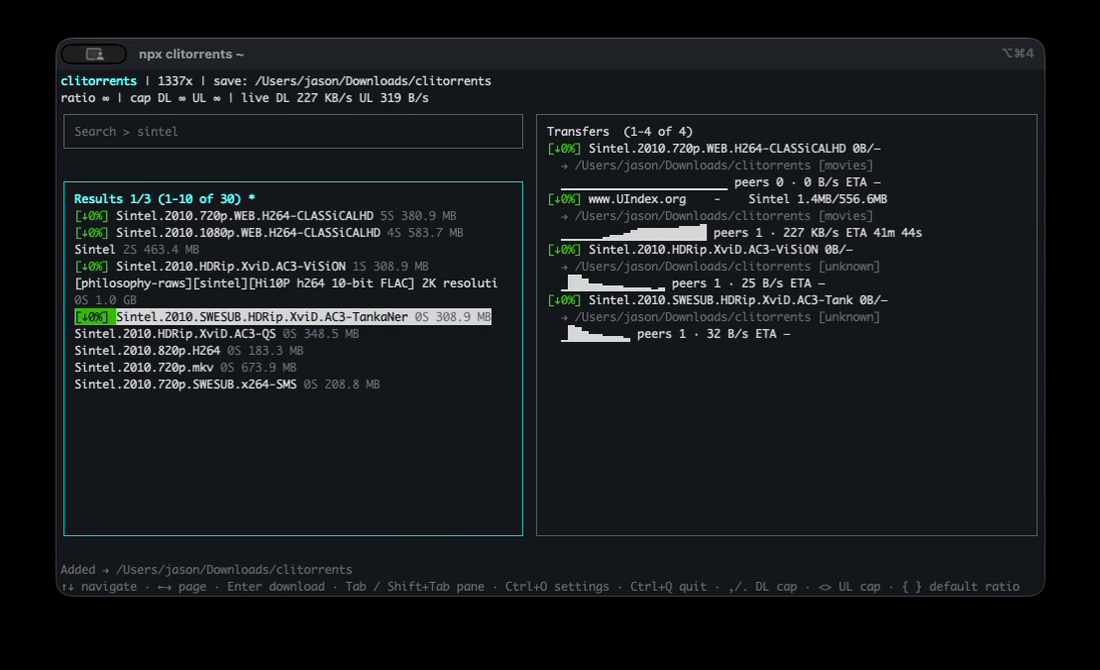
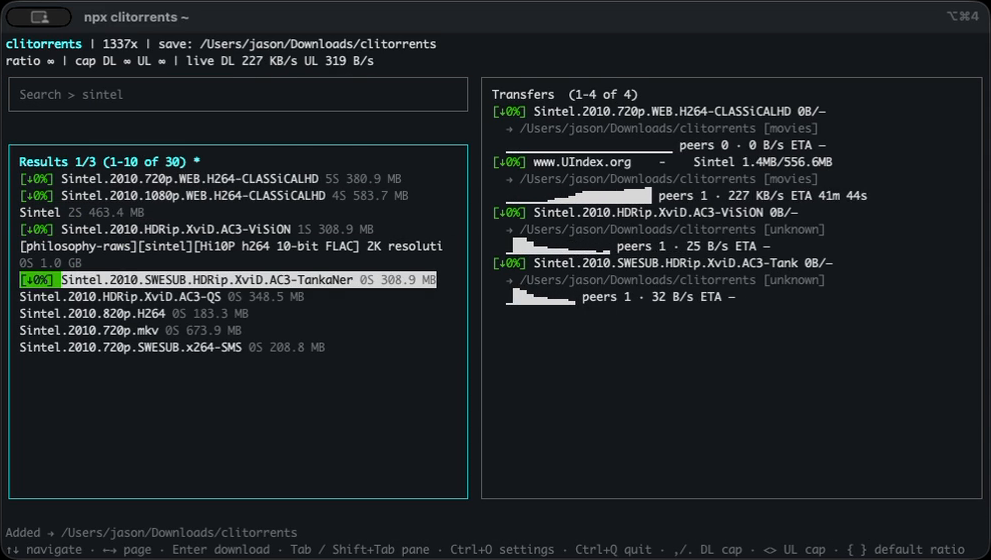
Refactor hero media section in index.html and styles.css for improved layout and styling. Simplify terminal window structure and enhance video display properties. Add a script to trim black borders from screenshots for better visual presentation.

diff --git a/docs/index.html b/docs/index.html
@@ -54,38 +54,13 @@
         </div>
 
         <figure class="hero-media">
-          <div class="hero-shots">
-            <div class="terminal-window hero-shot hero-shot-back">
-              <div class="terminal-titlebar">
-                <span class="terminal-dot terminal-dot-red"></span>
-                <span class="terminal-dot terminal-dot-yellow"></span>
-                <span class="terminal-dot terminal-dot-green"></span>
-                <span class="terminal-title">clitorrents</span>
-              </div>
-              <img
-                src="screenshots/tui-end.png"
-                alt="Clitorrents TUI showing active transfers and download progress"
-                width="1100"
-                height="670"
-                loading="eager"
-              >
-            </div>
-            <div class="terminal-window hero-shot hero-shot-front">
-              <div class="terminal-titlebar">
-                <span class="terminal-dot terminal-dot-red"></span>
-                <span class="terminal-dot terminal-dot-yellow"></span>
-                <span class="terminal-dot terminal-dot-green"></span>
-                <span class="terminal-title">clitorrents</span>
-              </div>
-              <img
-                src="screenshots/tui-start.png"
-                alt="Clitorrents TUI loading screen"
-                width="1100"
-                height="670"
-                loading="eager"
-              >
-            </div>
-          </div>
+          <img
+            src="screenshots/tui-start.png"
+            alt="Clitorrents TUI loading screen"
+            width="991"
+            height="560"
+            loading="eager"
+          >
         </figure>
       </div>
     </section>
@@ -159,23 +134,15 @@
         </p>
 
         <figure class="demo-figure">
-          <div class="terminal-window">
-            <div class="terminal-titlebar">
-              <span class="terminal-dot terminal-dot-red"></span>
-              <span class="terminal-dot terminal-dot-yellow"></span>
-              <span class="terminal-dot terminal-dot-green"></span>
-              <span class="terminal-title">clitorrents</span>
-            </div>
-            <video
-              src="screenshots/tui.mp4"
-              poster="screenshots/tui-start.png"
-              autoplay
-              loop
-              muted
-              playsinline
-              aria-label="Clitorrents TUI demo — search, results, and transfers"
-            ></video>
-          </div>
+          <video
+            src="screenshots/tui.mp4"
+            poster="screenshots/tui-start.png"
+            autoplay
+            loop
+            muted
+            playsinline
+            aria-label="Clitorrents TUI demo — search, results, and transfers"
+          ></video>
           <figcaption>
             <strong>Full walkthrough</strong> — from splash screen to live downloads
           </figcaption>

diff --git a/docs/styles.css b/docs/styles.css
@@ -258,77 +258,16 @@ pre,
   color: var(--text-muted);
 }
 
-/* ── Terminal frame ── */
-
-.terminal-window {
-  border-radius: var(--radius);
-  border: 1px solid var(--border-bright);
-  background: var(--bg-card);
-  box-shadow: var(--shadow), var(--glow-cyan);
-  overflow: hidden;
-}
-
-.terminal-window video,
-.terminal-window img {
-  display: block;
-  width: 100%;
-  height: auto;
-  vertical-align: middle;
-}
+/* ── Hero media ── */
 
 .hero-media {
   margin: 0;
 }
 
-.hero-shots {
-  position: relative;
-  padding-bottom: 2.5rem;
-}
-
-.hero-shot {
-  position: relative;
-}
-
-.hero-shot-back {
-  position: absolute;
-  top: 2.5rem;
-  left: 1.75rem;
-  right: -1.75rem;
-  z-index: 1;
-  opacity: 0.92;
-  transform: scale(0.96);
-  box-shadow: var(--shadow);
-}
-
-.hero-shot-front {
-  position: relative;
-  z-index: 2;
-}
-
-.terminal-titlebar {
-  display: flex;
-  align-items: center;
-  gap: 0.45rem;
-  padding: 0.65rem 1rem;
-  background: rgba(0, 0, 0, 0.35);
-  border-bottom: 1px solid var(--border);
-}
-
-.terminal-dot {
-  width: 10px;
-  height: 10px;
-  border-radius: 50%;
-}
-
-.terminal-dot-red { background: #ff5f57; }
-.terminal-dot-yellow { background: #febc2e; }
-.terminal-dot-green { background: #28c840; }
-
-.terminal-title {
-  margin-left: 0.5rem;
-  font-family: var(--font-mono);
-  font-size: 0.72rem;
-  color: var(--text-muted);
+.hero-media img {
+  display: block;
+  width: 100%;
+  height: auto;
 }
 
 /* ── Sections ── */
@@ -484,6 +423,12 @@ section {
 .demo-figure {
   margin: 0 auto;
   max-width: 920px;
+}
+
+.demo-figure video {
+  display: block;
+  width: 100%;
+  height: auto;
 }
 
 .demo-figure figcaption {
@@ -694,15 +639,6 @@ section {
     display: none;
   }
 
-  .hero-shot-back {
-    left: 1rem;
-    right: -1rem;
-    top: 1.5rem;
-  }
-
-  .hero-shots {
-    padding-bottom: 1.5rem;
-  }
 }
 
 @media (max-width: 480px) {
